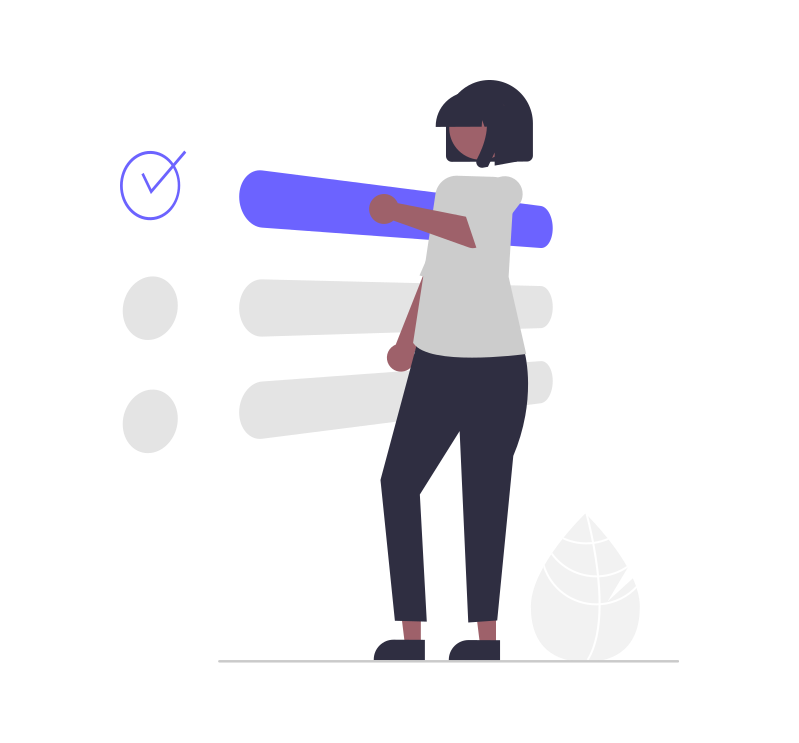
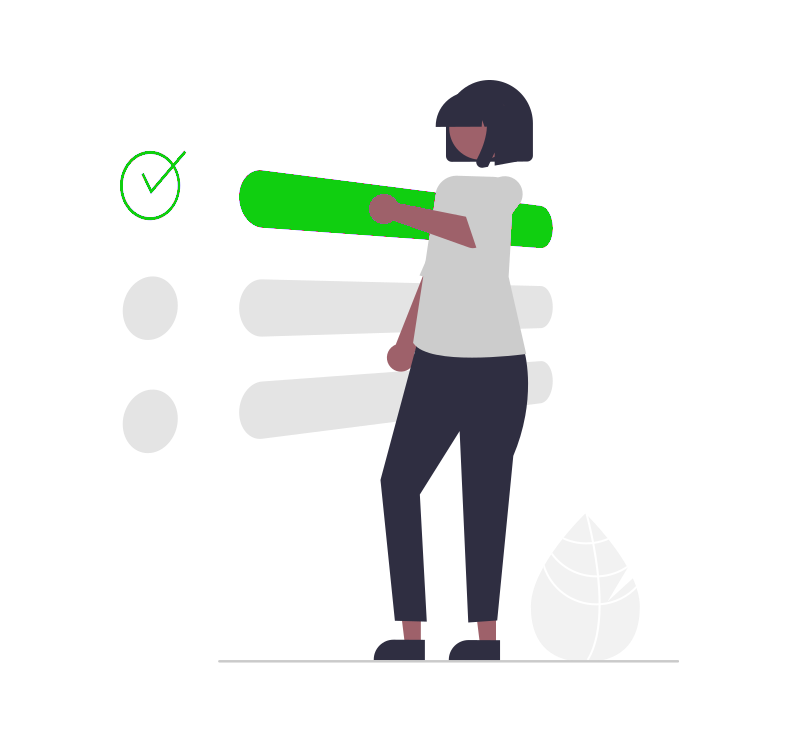
página de tarefas responsiva, com data em uma linha diferente do texto. cores e imagens alteradas

Changed region(s): [[0.3004, 0.2167, 0.5407, 0.3405], [0.1502, 0.1857, 0.2403, 0.3096], [0.6308, 0.2786, 0.6909, 0.3405]]

diff --git a/styles/tarefas.css b/styles/tarefas.css
@@ -9,7 +9,7 @@ header {
   display: flex;
   background: linear-gradient(90deg, var(--primary), var(--secondary));
   box-shadow: 0px 3px 5px lightgrey;
-  padding: 0 3em;
+  padding: 0 10px;
   margin-bottom: 2em;
 }
 
@@ -19,14 +19,20 @@ a {
   padding: 0.7em 1em;
   border-bottom: 0.2em solid white;
   text-decoration: none;
-  color: white;
+  color: rgb(120, 0, 0);
+}
+
+.link-tarefas {
+  color: rgb(120, 0, 0);
+  background-color: rgba(244, 169, 49, 0.481);
 }
 
 .user-info {
+  margin-top: 10px;
   display: flex;
   align-items: center;
   margin-left: auto;
-  color: rgb(223, 223, 223);
+  color: rgb(120, 0, 0);
 }
 
 .user-info p {
@@ -34,13 +40,15 @@ a {
 }
 
 .user-info .user-image {
+  margin-bottom: 10px;
   height: 2em;
   width: 2em;
   min-width: 2em;
   border-radius: 50%;
   background-color: white;
   opacity: 0.4;
-  margin-left: 0.7em;
+  margin-left: 1vw;
+  margin-right: 3vw;
 }
 
 
@@ -56,12 +64,18 @@ a {
 
 /* Nova tarefa ----------------------------------------------------------- */
 
+.content {
+  width: 100%;
+}
+
 .nova-tarefa {
+  width: 85%;
   position: relative;
   display: flex;
   align-items: center;
   background-color: white;
-  margin: 0 10%;
+  margin: 5% 10%;
+  margin-bottom: 0%;
   padding: 1em;
   box-shadow: 2px 2px 10px lightgrey;
   border-radius: 0.2em;
@@ -133,9 +147,9 @@ a {
 .tarefas-pendentes {
   display: flex;
   flex-direction: column;
-  width: 70%;
+  width: 72%;
   list-style: none;
-  margin: 2em 15%;
+  margin: 2em 9%;
 }
 
 .tarefa {
@@ -143,6 +157,17 @@ a {
   align-items: center;
   margin-bottom: 1.5em;
 }
+
+.tarefa-pendente {
+  background-color: rgb(250, 252, 201);
+  padding-top: 10px;
+}
+
+.tarefa-concluida {
+  background-color: rgb(163, 255, 132);
+  padding-top: 10px;
+}
+
 input[type="checkbox"] {
   -webkit-appearance: none;
   /* Remove most all native input styles */
@@ -196,8 +221,9 @@ input[type="checkbox"]:disabled {
   width: 80%;
   margin: 0 auto;
 }
+
 .content h2{
-  color: blueviolet;
+  color: rgb(77, 208, 47);
   margin: 0 auto;
   width: fit-content;
   padding: 1em;
@@ -211,7 +237,7 @@ input[type="checkbox"]:disabled {
   height: 1.5em;
   width: 1.5em;
   min-width: 1.5rem;
-  background-color: white;
+  background-color: rgba(255, 255, 255, 0);
   box-shadow: 2px 2px 5px lightgrey;
   border: 2px solid var(--secondary);
   z-index: 2;
@@ -248,20 +274,23 @@ input[type="checkbox"]:disabled {
   display: flex;
   align-items: center;
   justify-content: space-between;
-  gap: 20px;
+  gap: 2vh;
   flex: 1;
   background-color: white;
   padding: 1em 2em;
   box-shadow: 2px 2px 5px lightgrey;
+  width: ;
 }
 
 .tarefa .nome {
   color: rgb(95, 95, 95);
+  grid-auto-flow: row;
 }
 
 .tarefa .timestamp {
   font-size: 0.9em;
   color: rgb(134, 134, 134);
+  grid-auto-flow: row;
 }
 
 /* Tarefas terminadas ----------------------------------------------------------- */
@@ -333,8 +362,11 @@ input[type="checkbox"]:disabled {
     opacity: 0.8;
   }
 }
-@media screen and (max-width: 750px) {
+
+/* @media screen and (max-width: 750px) {
   .tarefas-pendentes {
     margin: 2em 10%;
   }
-}
+  .descricao {  
+  }
+} */

diff --git a/tarefas.html b/tarefas.html
@@ -6,8 +6,8 @@
   <meta http-equiv="X-UA-Compatible" content="IE=edge">
   <meta name="viewport" content="width=device-width, initial-scale=1.0">
   <!-- ----------------------------- estilos CSS ----------------------------- -->
-  <link rel="stylesheet" href="./styles/tarefas.css">
   <link href="https://cdn.jsdelivr.net/npm/bootstrap@5.1.3/dist/css/bootstrap.min.css" rel="stylesheet" integrity="sha384-1BmE4kWBq78iYhFldvKuhfTAU6auU8tT94WrHftjDbrCEXSU1oBoqyl2QvZ6jIW3" crossorigin="anonymous">
+  <link rel="stylesheet" href="./styles/tarefas.css">
   <link href="https://unpkg.com/aos@2.3.1/dist/aos.css" rel="stylesheet">
 
   <!-- ------------------- Biblioteca de icones - Fontawesome -------------------- -->
@@ -27,9 +27,8 @@
 <body>
   <header>
     <nav>
-      <a href="#">Tarefas</a>
+      <a href="#" class="link-tarefas">Tarefas</a>
     </nav>
-
     <div class="user-info">
       <p id="userName">Nome usuário</p>
       <div class="user-image"></div>
@@ -38,10 +37,9 @@
     </div>
   </header>
 
-  <div class="body">
-    <div class="content">
+    <div class="content container-fluid">
       <form class="nova-tarefa">
-        <div class="not-done "><input type="checkbox" name="done" id="done"></div>
+        <div class="not-done"><input type="checkbox" name="done" id="done"></div>
         <div class="inputDiv">
           <input id="novaTarefa" type="text" placeholder="Nova tarefa"><br>
           <small id="taskVerify"></small>
@@ -51,7 +49,6 @@
           <img src="./assets/plus.png" alt="Adicionar uma nova tarefa">
         </button>
       </form>
-
 
       <ul class="tarefas-pendentes">
         <div id="pending">
@@ -64,8 +61,7 @@
       <ul class="tarefas-terminadas">
 
       </ul>
-    </div>
-  </div>
+
 
   <!-- modal -->
   <div id="modalWindow" class="modal" tabindex="-1" role="dialog">
@@ -87,6 +83,9 @@
       </div>
     </div>
   </div>
+  
+</div>
+
 
   <script src="scripts/services/logout.js"></script>
   <script src="scripts/services/tasks.js"></script>

diff --git a/scripts/services/tasks.js b/scripts/services/tasks.js
@@ -70,7 +70,7 @@ function renderPendingTasks(task) {
   newLi.innerHTML = `<div onclick="updateTasks(${
     task.id
   }, ${true})" class="not-done" id="${task.id}"></div>
-  <div class="descricao">
+  <div class="descricao row row-cols-auto row-home">
   <div class="taskActions">
   <button id="taskEditor" onclick="editTask('${task.id},${task.description},${
     task.completed
@@ -80,10 +80,14 @@ function renderPendingTasks(task) {
     task.id
   }" class="far fa-trash-alt"></i></button>
   </div>
+  <div class="tarefa-pendente col-12 col-md-12">
     <p class="nome">${task.description}</p>
+  </div>
+  <div class="div-data col-auto">
     <p class="timestamp"><i class="far fa-calendar-alt"></i> Criada em: ${date.toLocaleDateString(
       "pt-br"
     )}</p>
+  </div>  
   </div>`;
   pendingTasks.appendChild(newLi);
 }
@@ -93,18 +97,22 @@ function renderDoneTasks(task) {
   newLiDone.className = "tarefa";
   let date = new Date(task.createdAt);
   newLiDone.innerHTML = `<div class="done"></div>
- <div class="descricao">
- <div>
+ <div class="descricao row row-cols-auto row-home">
+ <div col>
  <button onclick="updateTasks(${task.id})"
  <i" class="fas fa-undo-alt change"> </i> </button>
  <button onclick="deleteTask(${task.id})"><i id="${
     task.id
   }" class="far fa-trash-alt"></i></button>
  </div>
+ <div class="tarefa-concluida col-12 col-md-12">
  <p class="nome">${task.description}</p>
+ </div>
+ <div class="div-data col-auto">
  <p class="timestamp"><i class="far fa-calendar-alt"></i> Concluída em: ${date.toLocaleDateString(
    "pt-br"
  )}</p>
+ </div>
  </div>`;
   doneTasks.appendChild(newLiDone);
 }
@@ -119,3 +127,4 @@ function editTask(taskInfo) {
   taskElement.completed = Boolean(taskArray[3]);
   taskInput.value = taskArray[1];
 }
+

diff --git a/scripts/services/singup.js b/scripts/services/singup.js
@@ -61,7 +61,7 @@ passRepeat.addEventListener("input", (evt) => {
 function isValid() {
   if (isNameValid && isLastNameValid && isMailValid && isPassMatch) {
     submitBtn.removeAttribute("disabled");
-    submitBtn.innerText = "Acessar";
+    submitBtn.innerText = "Cadastrar";
     return true;
   } else {
     submitBtn.setAttribute("disabled", true);
@@ -72,5 +72,5 @@ function isValid() {
 
 function disableBtn() {
   submitBtn.setAttribute("disabled", true);
-  submitBtn.innerText = "Bloqueado";
+  submitBtn.innerText = "Preencha o Formulário";
 }

diff --git a/styles/acesso.css b/styles/acesso.css
@@ -71,7 +71,7 @@ small {
 
 button {
   padding: 0.5em 3em;
-  background-color: var(--primary);
+  background-color: var(--secondary);
   color: white;
   margin-top: 2em;
   font-weight: 400;
@@ -79,7 +79,7 @@ button {
 }
 
 button:disabled {
-  background-color: red;
+  background-color: rgb(152, 0, 0);
 }
 
 .form-header {

diff --git a/styles/common.css b/styles/common.css
@@ -1,8 +1,8 @@
 @import url("https://fonts.googleapis.com/css2?family=Lato:wght@100;300;400&display=swap");
 
 :root {
-  --primary: #7898ff;
-  --secondary: #8e64c5;
+  --primary: #f8ff78;
+  --secondary: #fba20a;
   --app-grey: #f2f2f2;
 }
 

diff --git a/scripts/services/login.js b/scripts/services/login.js
@@ -37,7 +37,7 @@ function isValid() {
     return true;
   } else {
     acessBtn.setAttribute("disabled", true);
-    acessBtn.innerText = "Bloqueado";
+    acessBtn.innerText = "Insira seus dados";
     return false;
   }
 }
